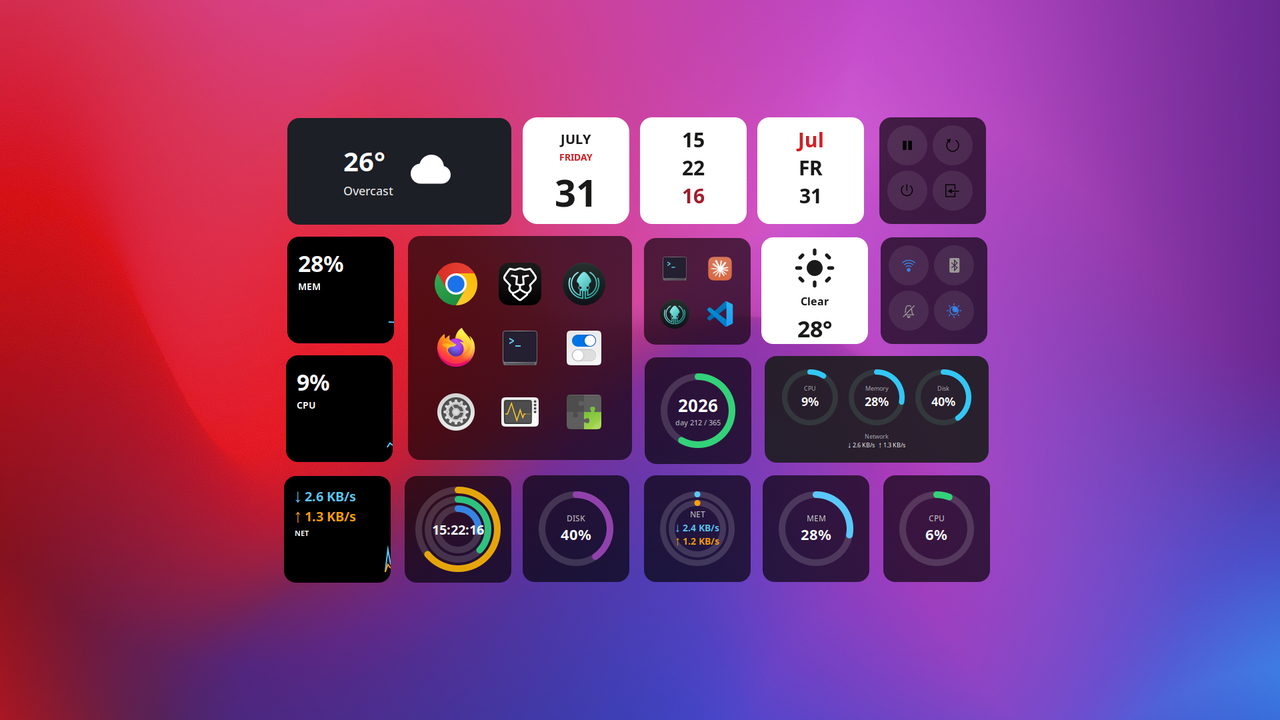
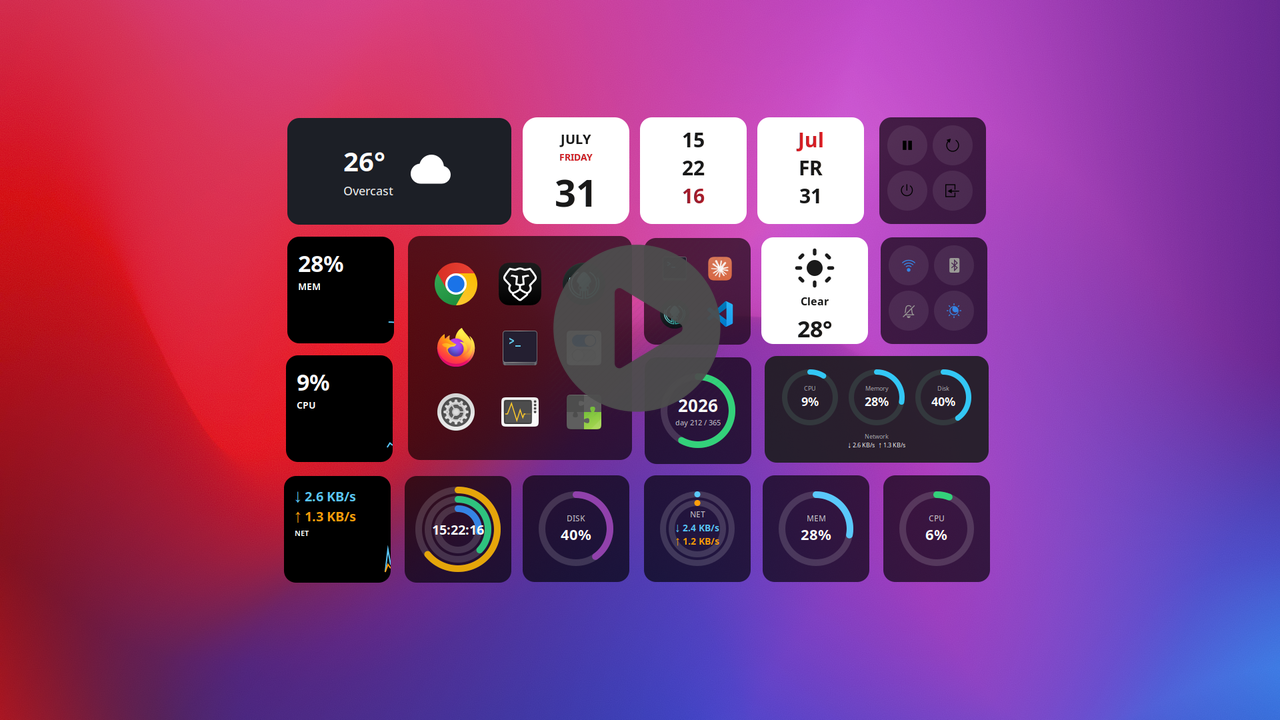
Fix Bug
Add Youtube link

Changed region(s): [[0.4062, 0.3361, 0.5625, 0.5806]]

diff --git a/gnome-widget-center@xenlism.github.io/lib/exportService.js b/gnome-widget-center@xenlism.github.io/lib/exportService.js
@@ -28,7 +28,13 @@ function _buildWidgetEntry(widget, {storage: storage, theme: theme}, redactedFie
         widgetId: widget.id,
         keys: removedKeys
     });
-    const position = storage.getWidgetPosition(widget.id);
+    const savedPosition = storage.getWidgetPosition(widget.id);
+    const defaultPosition = widget.metadata?.["default-position"];
+    const position = savedPosition ?? (defaultPosition ? {
+        x: defaultPosition.x ?? 0,
+        y: defaultPosition.y ?? 0,
+        monitorIndex: defaultPosition.monitorIndex ?? defaultPosition.monitor ?? 0
+    } : null);
     const widgetTheme = theme.getWidgetTheme(widget.id);
     const dependencies = Array.isArray(widget.metadata?.dependencies?.system) ? widget.metadata.dependencies.system.filter(dep => dep && typeof dep.bin === "string" && dep.bin).map(dep => ({
         bin: dep.bin,
@@ -80,7 +86,13 @@ function _buildDocumentShell(theme, settings, widgetEntries) {
 
 function _enabledWidgets(widgets, storage, settings) {
     const disabledIds = settings?.isReady ? new Set(settings.getGlobalValue("disabled-widgets")) : new Set;
-    return widgets.filter(widget => !disabledIds.has(widget.id) && storage.getWidgetPosition(widget.id) !== null);
+    // A widget counts as "placed" if it's enabled, regardless of whether it has
+    // ever been dragged (and therefore has a layout.json entry). Widgets still
+    // sitting at their metadata default-position never get a layout.json row
+    // (see widgetLayer.js's getSavedPosition(), which only reads storage and
+    // never writes the fallback back), so requiring one here silently dropped
+    // any enabled-but-never-moved widget from the export.
+    return widgets.filter(widget => !disabledIds.has(widget.id));
 }
 
 function _idleTick() {

diff --git a/README.md b/README.md
@@ -59,7 +59,7 @@ back the entire thing up — all without restarting GNOME Shell.
 
 ## Screenshots
 
-![Desktop with several widgets arranged on it](assets/desktop.png)
+[![Watch the video on YouTube](https://img.youtube.com/vi/LaN50RX_Dcw/0.jpg)](assets/desktop.png)
 
 ### Edit Mode
 
